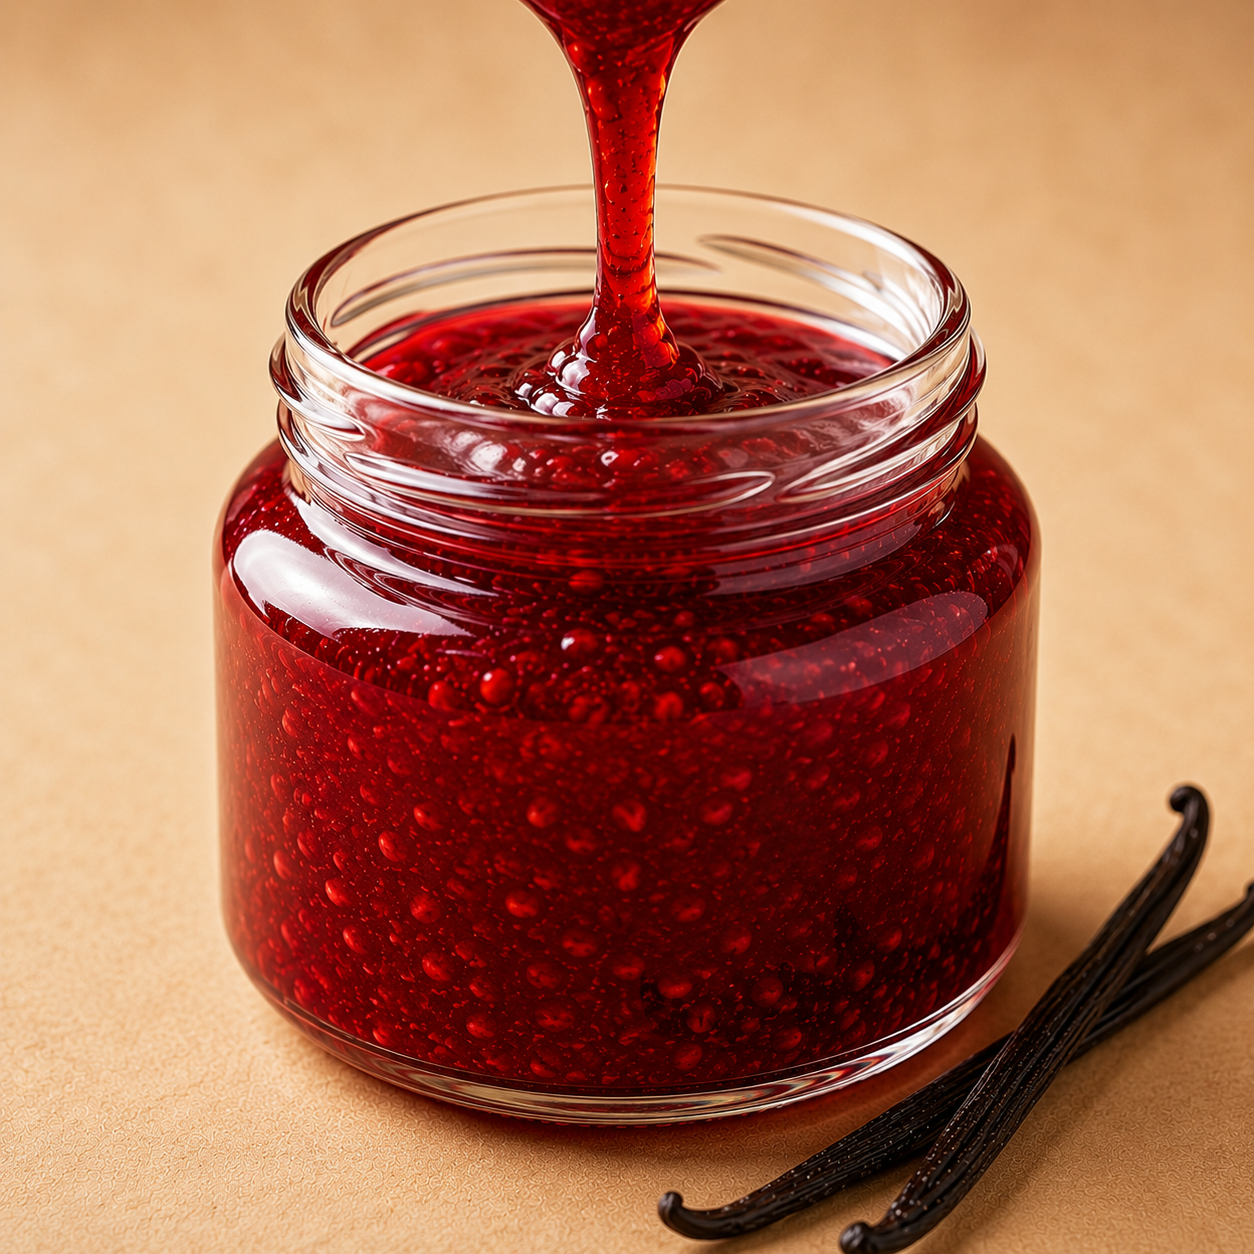
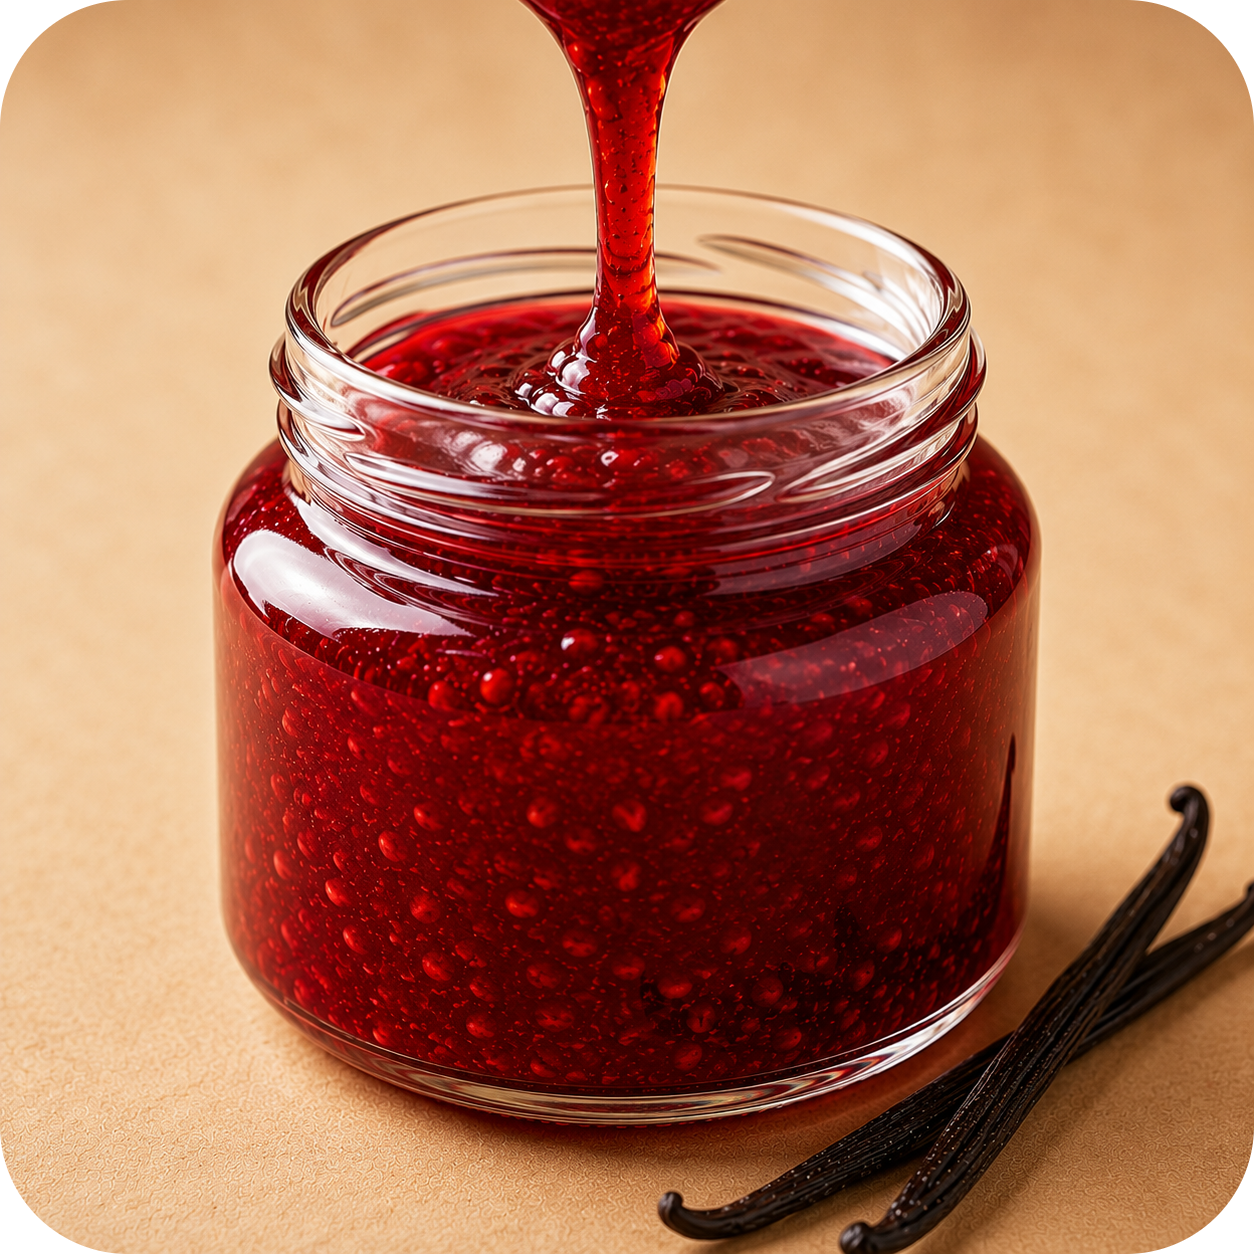
fix: remove 3D tilt effect causing edge wrap on product cards

diff --git a/projects/proTwo/index.html b/projects/proTwo/index.html
@@ -228,19 +228,19 @@
     }
     .reveal { animation: fadeInUp 0.6s ease forwards; }
 
-    .tilt-card {
+    . {
       perspective: 1200px;
       transform-style: preserve-3d;
       transition: transform 0.15s ease;
     }
-    .tilt-card-inner {
+    .-inner {
       transform-style: preserve-3d;
       transition: transform 0.3s ease;
     }
-    .tilt-card:hover .tilt-card-inner {
+    .:hover .-inner {
       transform: rotateX(var(--rotX, 0deg)) rotateY(var(--rotY, 0deg));
     }
-    .tilt-card .tilt-card-inner > * {
+    . .-inner > * {
       transform: translateZ(20px);
     }
 
@@ -596,8 +596,8 @@
     function renderProducts(filter) {
       const filtered = filter === 'all' ? PRODUCTS : PRODUCTS.filter(p => p.category === filter);
       productGrid.innerHTML = filtered.map(p => `
-        <div class="product-card tilt-card flex flex-col justify-between relative">
-          <div class="tilt-card-inner">
+        <div class="product-card flex flex-col justify-between relative">
+          <div class="-inner">
             <div>
               <div class="product-img-wrap" style="background: linear-gradient(135deg, ${p.bgGradient});">
                 <span class="badge">${p.badge}</span>
@@ -673,7 +673,7 @@
 
     // --- 3D TILT ON PRODUCT CARDS ---
     document.addEventListener('mousemove', function(e) {
-      document.querySelectorAll('.tilt-card').forEach(function(card) {
+      document.querySelectorAll('.').forEach(function(card) {
         const rect = card.getBoundingClientRect();
         const x = e.clientX - rect.left;
         const y = e.clientY - rect.top;
